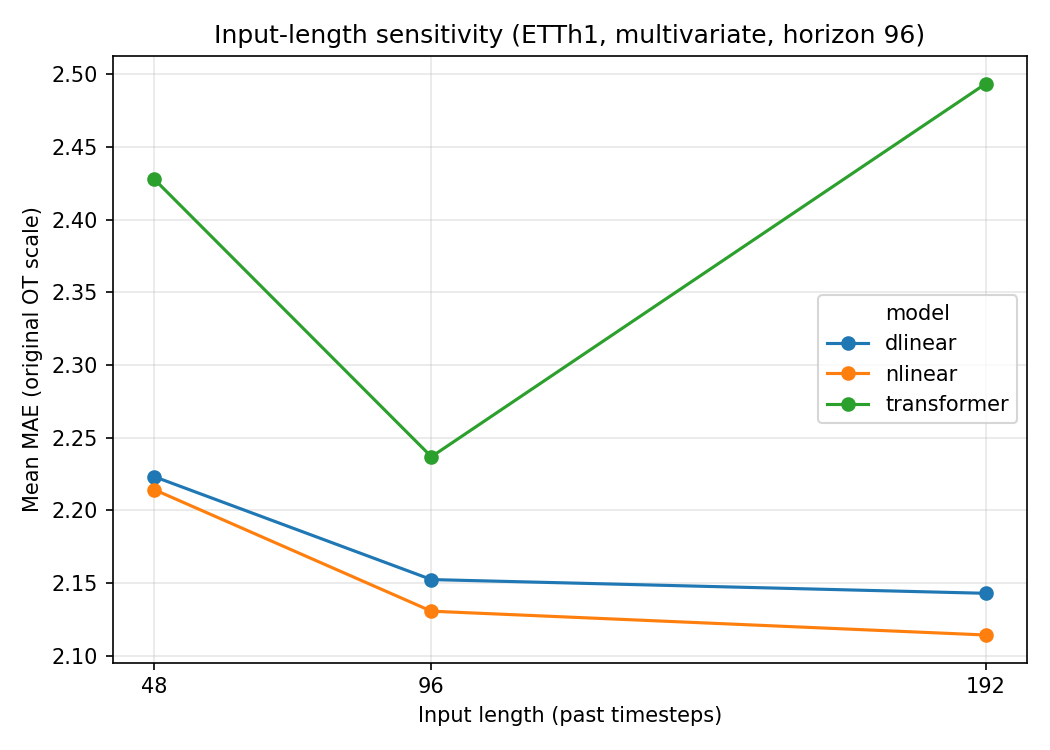
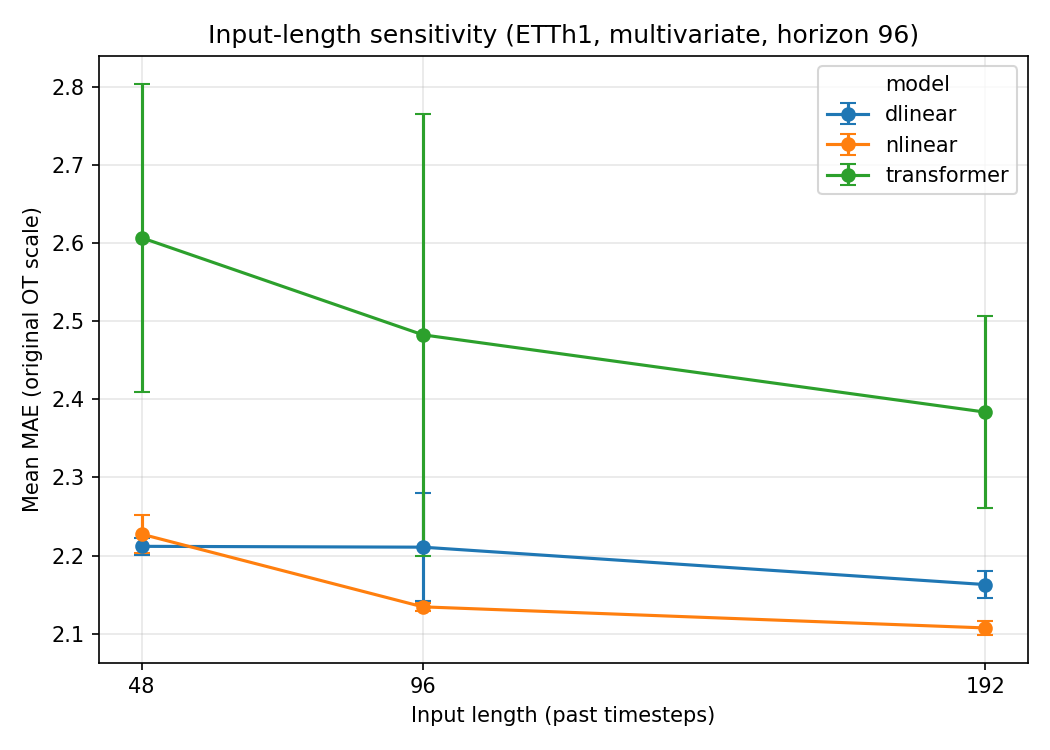
8.5 Add multi-seed robustness for supplementary checks

diff --git a/tests/test_ettm_external_validity.py b/tests/test_ettm_external_validity.py
@@ -53,6 +53,18 @@ def test_verdict_flags_linear_beating_transformer():
     assert bool(v.loc["ETTm2", "linear_beats_transformer"]) is False
 
 
+def test_std_mae_reflects_seed_variance():
+    # Two runs of the same model/dataset (different seeds) collapse into one row.
+    out = build_comparison(_log([
+        _row("ETTm1", "nlinear", 0.40, 16000),
+        _row("ETTm1", "nlinear", 0.50, 16000),
+    ]))
+    r = out[out["model"] == "nlinear"].iloc[0]
+    assert r["num_runs"] == 2
+    assert r["mean_mae"] == 0.45
+    assert r["std_mae"] > 0
+
+
 def test_stray_header_row_dropped():
     df = _log([_row("ETTm1", "linear", 0.5, 16000)])
     header = {c: c for c in df.columns}

diff --git a/tests/test_input_len_ablation.py b/tests/test_input_len_ablation.py
@@ -50,6 +50,16 @@ def test_ranking_stable_when_order_matches():
     assert set(summary["best_model"]) == {"dlinear"}
 
 
+def test_std_mae_reflects_seed_variance():
+    out = build_ablation_table(_log([
+        _row("dlinear", 96, 1.30), _row("dlinear", 96, 1.50),
+    ]))
+    r = out[out["input_len"] == 96].iloc[0]
+    assert r["num_runs"] == 2
+    assert r["mean_mae"] == 1.40
+    assert r["std_mae"] > 0
+
+
 def test_ranking_unstable_when_order_flips():
     rows = [
         _row("dlinear", 48, 1.30), _row("transformer", 48, 1.40),  # dlinear best

diff --git a/experiments/analyze_input_len_ablation.py b/experiments/analyze_input_len_ablation.py
@@ -26,7 +26,7 @@ PROJECT_ROOT = Path(__file__).resolve().parents[1]
 if str(PROJECT_ROOT) not in sys.path:
     sys.path.append(str(PROJECT_ROOT))
 
-TABLE_COLS = ["model", "input_len", "num_runs", "mean_mae", "mean_rmse",
+TABLE_COLS = ["model", "input_len", "num_runs", "mean_mae", "std_mae", "mean_rmse",
               "mean_wape", "total_parameters", "rank_within_input_len"]
 
 
@@ -53,6 +53,7 @@ def build_ablation_table(log_df: pd.DataFrame) -> pd.DataFrame:
         rows.append({
             "model": model, "input_len": int(input_len), "num_runs": int(len(g)),
             "mean_mae": float(g["mae"].mean()),
+            "std_mae": float(g["mae"].std(ddof=1)) if len(g) > 1 else 0.0,
             "mean_rmse": float(g["rmse"].mean()),
             "mean_wape": float(g["wape"].mean()),
             "total_parameters": int(g["total_parameters"].iloc[0]),
@@ -98,7 +99,9 @@ def make_figure(table: pd.DataFrame, path: str) -> None:
     fig, ax = plt.subplots(figsize=(7, 5))
     for model, g in table.groupby("model"):
         g = g.sort_values("input_len")
-        ax.plot(g["input_len"], g["mean_mae"], marker="o", label=model)
+        yerr = g["std_mae"] if "std_mae" in g else None
+        ax.errorbar(g["input_len"], g["mean_mae"], yerr=yerr, marker="o",
+                    capsize=4, label=model)
     ax.set_xlabel("Input length (past timesteps)")
     ax.set_ylabel("Mean MAE (original OT scale)")
     ax.set_title("Input-length sensitivity (ETTh1, multivariate, horizon 96)")

diff --git a/experiments/run_input_len_ablation.py b/experiments/run_input_len_ablation.py
@@ -27,16 +27,17 @@ ABLATION_INPUT_LENS = [48, 96, 192]
 ABLATION_MODELS = ["nlinear", "dlinear", "transformer"]
 ABLATION_DATASET = "ETTh1"
 ABLATION_HORIZON = 96
-ABLATION_SEED = 42
+ABLATION_SEEDS = [42, 2024, 3407]
 
 
-def build_ablation_configs(input_lens=ABLATION_INPUT_LENS, models=ABLATION_MODELS):
+def build_ablation_configs(input_lens=ABLATION_INPUT_LENS, models=ABLATION_MODELS,
+                           seeds=ABLATION_SEEDS):
     configs = []
     for input_len in input_lens:
         configs.extend(build_matrix(
             models=models, datasets=[ABLATION_DATASET],
             input_types=["multivariate"], horizons=[ABLATION_HORIZON],
-            seeds=[ABLATION_SEED], input_len=input_len))
+            seeds=seeds, input_len=input_len))
     return configs
 
 

diff --git a/experiments/analyze_ettm_external_validity.py b/experiments/analyze_ettm_external_validity.py
@@ -29,7 +29,7 @@ if str(PROJECT_ROOT) not in sys.path:
 
 LINEAR_FAMILY = ("linear", "nlinear", "dlinear")
 OUTPUT_COLS = ["dataset", "model", "horizon", "input_type", "num_runs",
-               "mean_mae", "mean_rmse", "mean_wape", "total_parameters",
+               "mean_mae", "std_mae", "mean_rmse", "mean_wape", "total_parameters",
                "rank_within_dataset"]
 
 
@@ -58,6 +58,7 @@ def build_comparison(log_df: pd.DataFrame) -> pd.DataFrame:
             "dataset": dataset, "model": model, "horizon": int(horizon),
             "input_type": input_type, "num_runs": int(len(g)),
             "mean_mae": float(g["mae"].mean()),
+            "std_mae": float(g["mae"].std(ddof=1)) if len(g) > 1 else 0.0,
             "mean_rmse": float(g["rmse"].mean()),
             "mean_wape": float(g["wape"].mean()),
             "total_parameters": int(g["total_parameters"].iloc[0]),

diff --git a/README.md b/README.md
@@ -515,28 +515,29 @@ so latency adds deployability information beyond model size. Latency is architec
 determined and weight-independent, so it is measured on freshly-built models; training
 wall-clock time was not recorded historically and is deliberately not reported.
 
-**External validity (minute-level ETTm).** As a lightweight single-seed check of external
-validity, the same multivariate `input_len=96`, `horizon=96` protocol was run on the
-15-minute **ETTm1 / ETTm2** datasets (Naive, Linear, NLinear, DLinear and the Transformer;
-seed 42; an isolated results directory that does not touch the core ETTh tables). The core
-finding transfers: a linear-family model has the lowest MAE on **both** datasets and beats
-the Transformer in each case (ETTm1: DLinear ≈ 1.38 vs Transformer ≈ 1.48; ETTm2: NLinear
-≈ 2.69 vs Transformer ≈ 3.27). Two honest caveats apply: this is a **single seed** (point
-estimates, no confidence intervals), and on ETTm1 the models are closely bunched — Naive is
-only third and the spread is small — so ETTm1 is a **weak** confirmation, whereas ETTm2
-shows a clearer linear-family advantage. Only the forecasting stage was evaluated on ETTm;
-the anomaly-detection stage on minute-level data remains future work. Results:
-`results/external_validity/ettm_forecasting_comparison.csv`.
+**External validity (minute-level ETTm).** As a check of external validity, the same
+multivariate `input_len=96`, `horizon=96` protocol was run on the 15-minute **ETTm1 /
+ETTm2** datasets over **three seeds** (42 / 2024 / 3407; Naive, Linear, NLinear, DLinear and
+the Transformer; an isolated results directory that does not touch the core ETTh tables).
+The core finding transfers robustly: a linear-family model has the lowest mean MAE on
+**both** datasets and beats the Transformer in each case (ETTm1: NLinear 1.39 ± 0.06 vs
+Transformer 1.50 ± 0.07; ETTm2: NLinear 2.71 ± 0.02 vs Transformer 3.15 ± 0.14), and the
+Transformer also shows the **largest seed variance**. On ETTm1 the two best linear models
+are effectively tied (NLinear 1.392 vs DLinear 1.393) and Naive is competitive (fourth), so
+ETTm1 is a close result; ETTm2 shows a clearer linear-family advantage. Only the forecasting
+stage was evaluated on ETTm; the anomaly-detection stage on minute-level data remains future
+work. Results: `results/external_validity/ettm_forecasting_comparison.csv`.
 
-**Input-length sensitivity.** To check that the model ranking is not an artefact of the
-default `input_len=96`, the ETTh1 multivariate `horizon=96` grid was re-run at `input_len`
-48 / 96 / 192 for NLinear, DLinear and the Transformer (seed 42, isolated directory). The
-ranking is **stable**: `NLinear > DLinear > Transformer` (by MAE) at all three input
-lengths, so the linear-family advantage does not depend on the window length. The linear
-models improve slightly with a longer window (NLinear MAE 2.21 → 2.11 from 48 to 192),
-whereas the Transformer is **non-monotonic** — best at 96 (2.24) and worse at both 48
-(2.43) and 192 (2.49) — i.e. a longer window does not help it here. As a single-seed
-ablation this is indicative rather than definitive. Results:
+**Input-length sensitivity.** To check that the ranking is not an artefact of the default
+`input_len=96`, the ETTh1 multivariate `horizon=96` grid was re-run at `input_len` 48 / 96 /
+192 for NLinear, DLinear and the Transformer over **three seeds** (isolated directory). The
+**Transformer ranks last at every input length** by a clear margin (mean MAE ≈ 2.38–2.61 vs
+≈ 2.11–2.23 for the linear family) and is by far the **most seed-variable** (std up to ≈ 0.28
+vs < 0.07 for the linear models), so the linear-family advantage does not depend on the
+window length. Within the linear family, NLinear and DLinear are statistically
+indistinguishable and swap order at `input_len=48`, so the strict full ordering is not
+identical across lengths — but the linear-vs-Transformer conclusion is stable. Error bars are
+shown in `results/figures/input_len_ablation_mae.png`; results in
 `results/sensitivity/input_len_ablation.csv`.
 
 ### Anomaly detection (Module 4)
@@ -786,10 +787,10 @@ on training data only, and injected test labels are never used for threshold cal
 Forecasting comparisons use paired bootstrap confidence intervals over per-window errors.
 
 **External validity.** The core study focuses on ETTh1 / ETTh2, `input_len=96` and selected
-horizons (24 / 48 / 96). A **single-seed forecasting check on minute-level ETTm1 / ETTm2**
-(reported above) confirms the linear-family advantage transfers, but broader generalisation
-— more seeds and horizons, the anomaly-detection stage on ETTm, modern Transformer variants,
-and, crucially, real labelled fault data — remains untested.
+horizons (24 / 48 / 96). **Three-seed forecasting checks on minute-level ETTm1 / ETTm2 and
+an input-length ablation** (reported above) confirm the linear-family advantage transfers,
+but broader generalisation — more seeds and horizons, the anomaly-detection stage on ETTm,
+modern Transformer variants, and, crucially, real labelled fault data — remains untested.
 
 ## Limitations and Future Work
 
@@ -799,7 +800,7 @@ and, crucially, real labelled fault data — remains untested.
 - **Deep-model budget.** A full hyper-parameter search and modern patch/inversion-based
   Transformers (PatchTST, iTransformer) under the same equal-budget protocol would
   strengthen the forecasting comparison.
-- **Scope.** The single-seed ETTm frequency check and input-length ablation reported above
+- **Scope.** The three-seed ETTm frequency check and input-length ablation reported above
   could be extended with more seeds and horizons; further future work includes
   training-time benchmarks, a full decomposition/channel-independent DLinear, the
   anomaly-detection stage on ETTm, and evaluation on real fault labels.